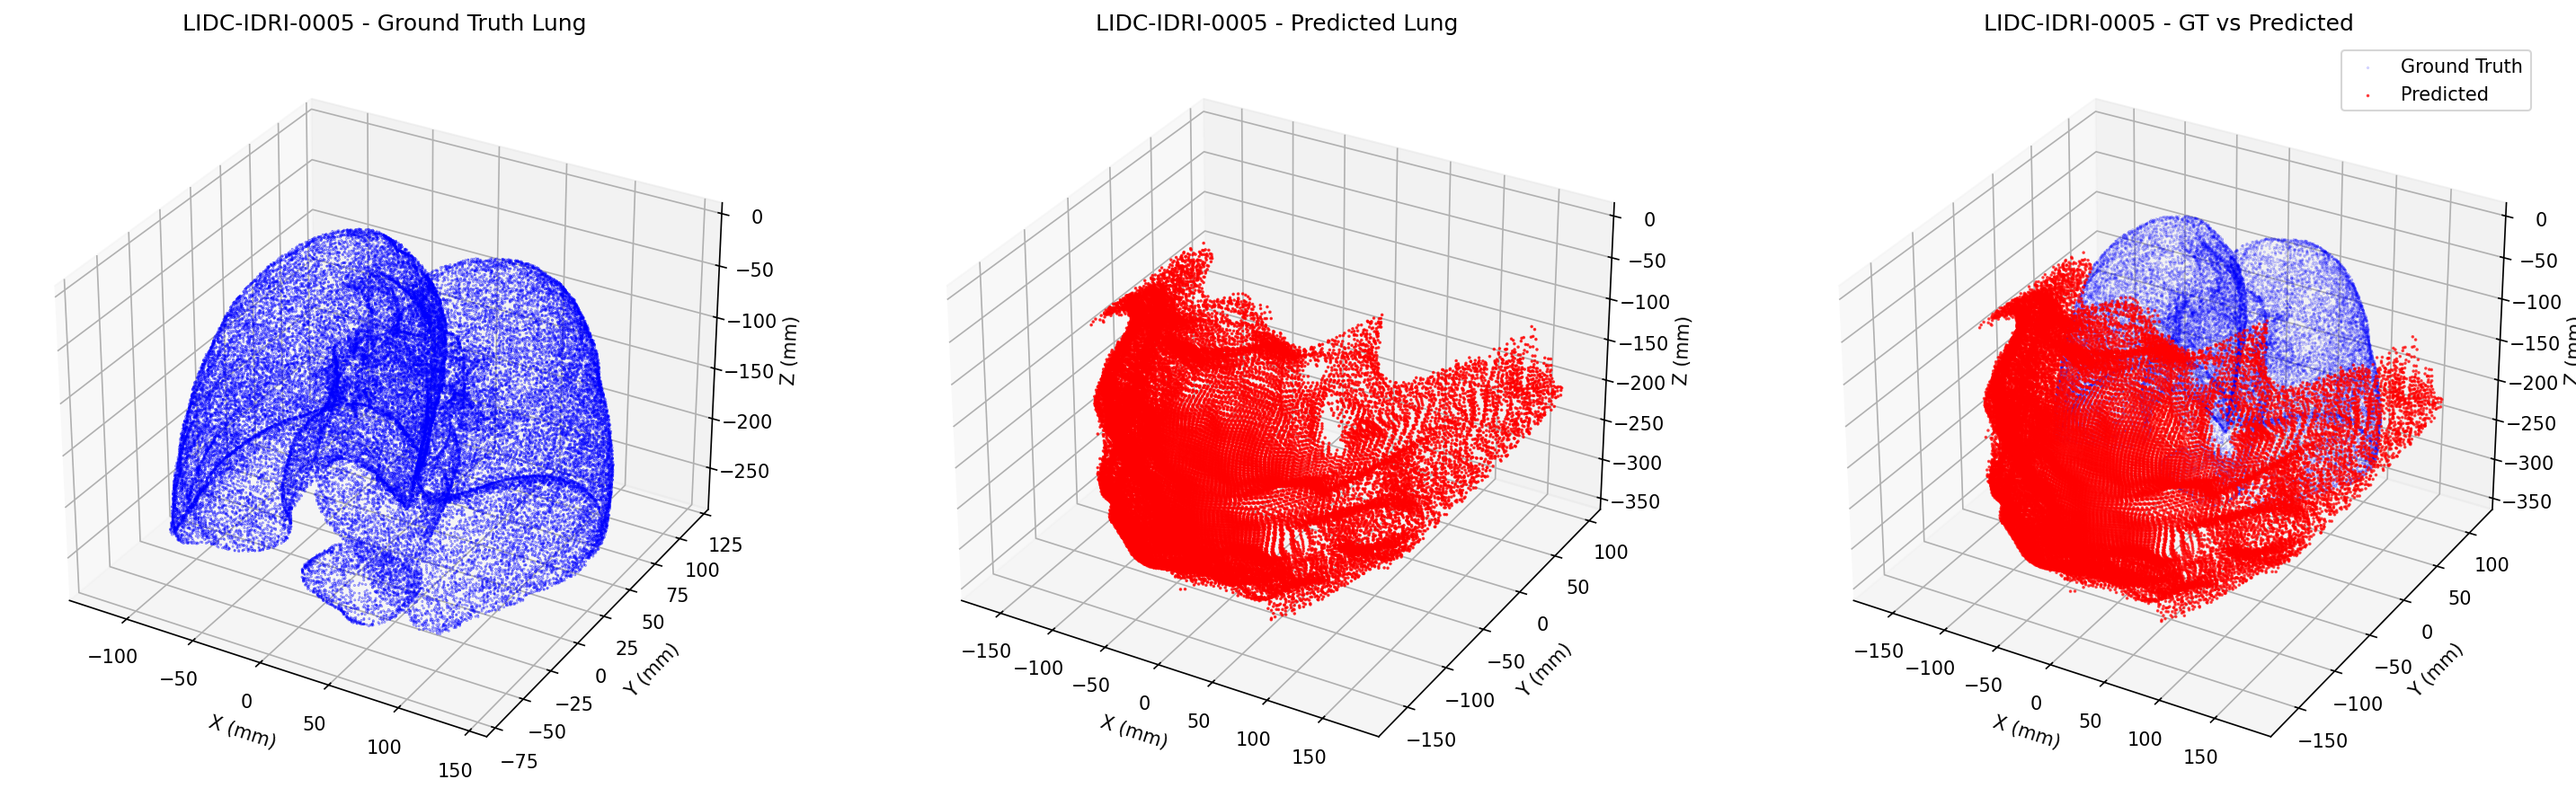
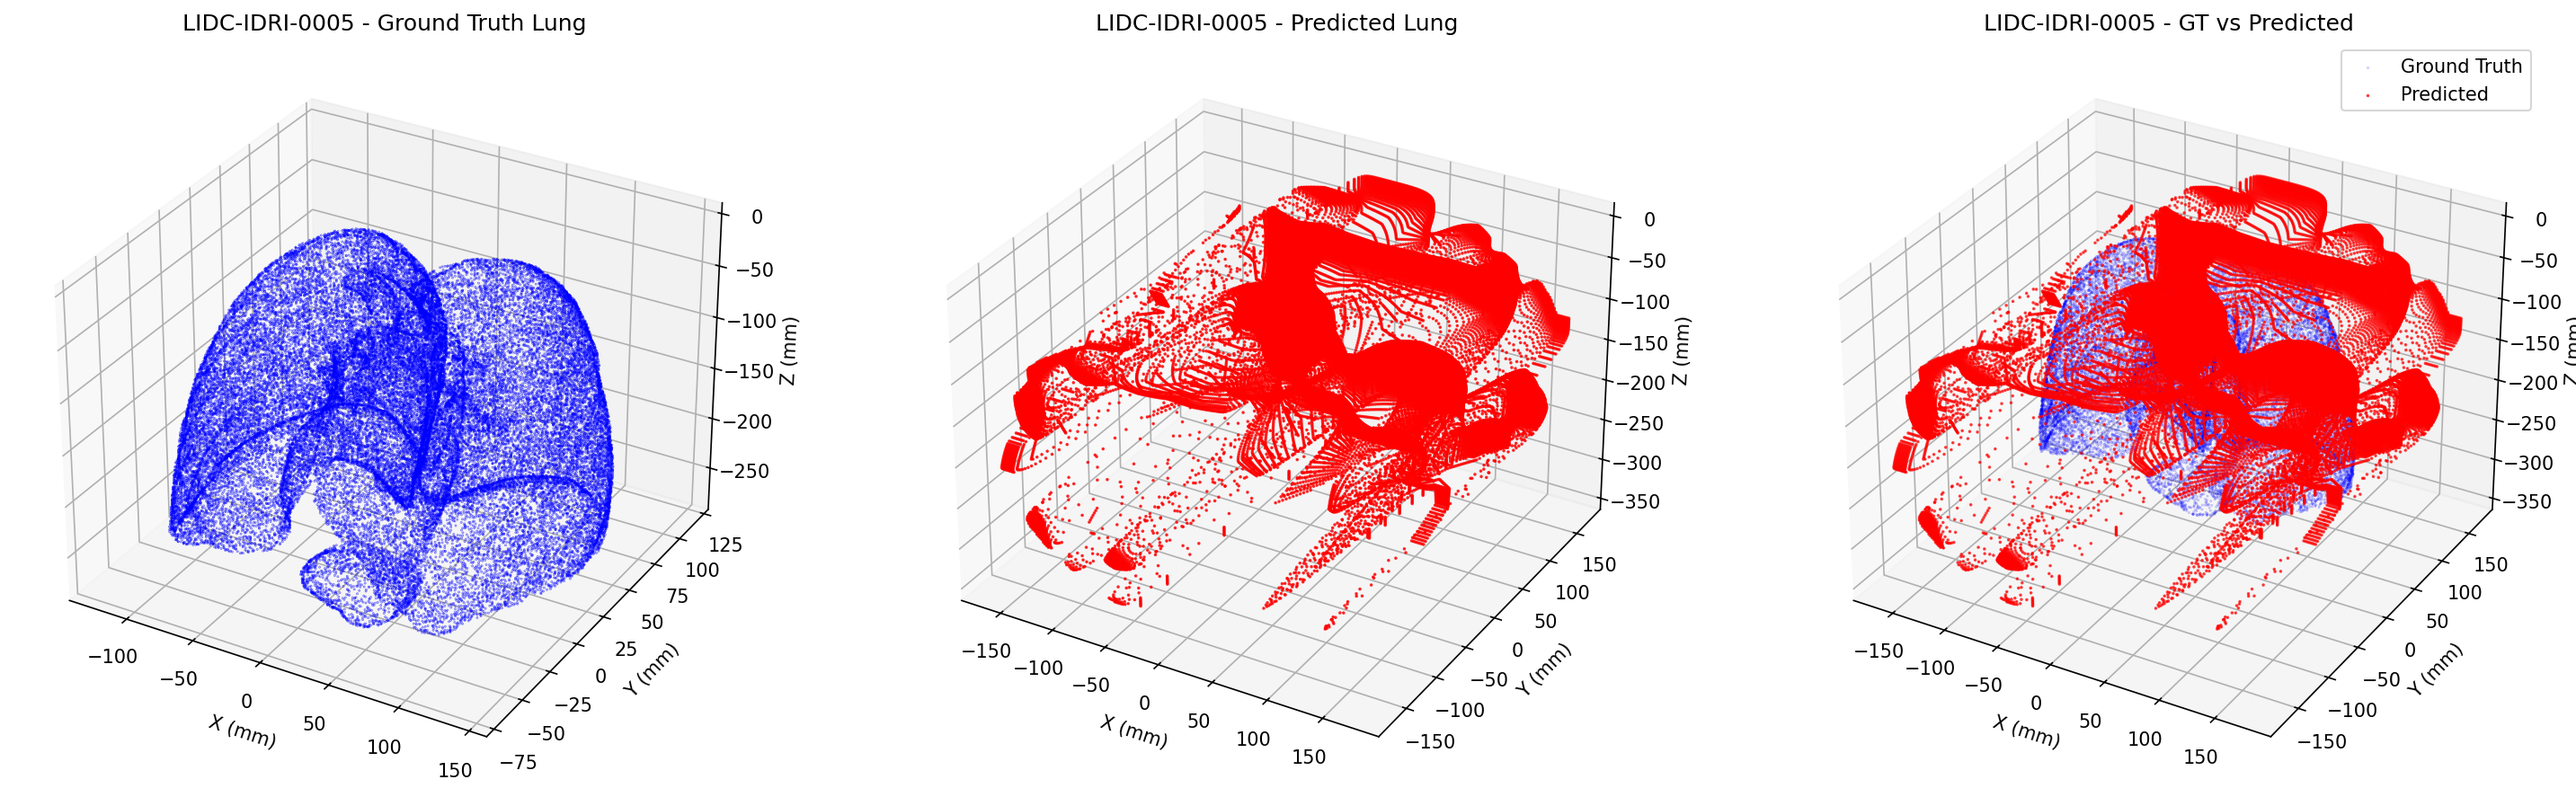
modified train3.py by adding feature pyramid.

diff --git a/train3.py b/train3.py
@@ -117,70 +117,83 @@ class PanoBEVDataset3(Dataset):
 # ===================================================================
 # Model (same as train2)
 # ===================================================================
-class ViTPanoBEV3(nn.Module):
+class ViTPanoBEV3_MultiScale(nn.Module):
     def __init__(self, vit_model_name, output_size=224):
         super().__init__()
         self.vit = ViTModel.from_pretrained(vit_model_name, output_hidden_states=True)
         self.hidden_size = self.vit.config.hidden_size
-        self.output_size = output_size  # 追加
+        self.output_size = output_size
 
-        class DecoderBlock(nn.Module):
-            def __init__(self, in_channels, skip_channels, out_channels):
-                super().__init__()
-                self.up = nn.ConvTranspose2d(in_channels, out_channels, kernel_size=2, stride=2)
-                self.conv = nn.Sequential(
-                    nn.Conv2d(out_channels + skip_channels, out_channels, kernel_size=3, padding=1),
-                    nn.ReLU(inplace=True),
-                    nn.Conv2d(out_channels, out_channels, kernel_size=3, padding=1),
-                    nn.ReLU(inplace=True)
-                )
-            def forward(self, x, skip_x):
-                x = self.up(x)
-                if skip_x.shape[2:] != x.shape[2:]:
-                    skip_x = F.interpolate(skip_x, size=x.shape[2:], mode='bilinear', align_corners=False)
-                x = torch.cat([x, skip_x], dim=1)
-                return self.conv(x)
+        # 各スケールの特徴変換
+        self.scale_convs = nn.ModuleList([
+            nn.Conv2d(self.hidden_size, 256, 1),  # 細部 (layer 4)
+            nn.Conv2d(self.hidden_size, 256, 1),  # 中間 (layer 8)
+            nn.Conv2d(self.hidden_size, 256, 1)   # 大域 (layer 12)
+        ])
 
-        self.bottleneck = nn.Conv2d(self.hidden_size, 512, kernel_size=1)
-        self.decoder4 = DecoderBlock(512, self.hidden_size, 256)
-        self.decoder3 = DecoderBlock(256, self.hidden_size, 128)
-        self.decoder2 = DecoderBlock(128, self.hidden_size, 64)
-        self.final_conv = nn.ConvTranspose2d(64, 16, kernel_size=2, stride=2)
-        self.bev_head = nn.Conv2d(16, 1, kernel_size=1)
-        self.depth_head = nn.Conv2d(16, 1, kernel_size=1)
+        # 特徴融合
+        self.fusion = nn.Sequential(
+            nn.Conv2d(256*3, 256, 3, padding=1),
+            nn.ReLU(),
+            nn.Conv2d(256, 128, 3, padding=1),
+            nn.ReLU()
+        )
+
+        # デコーダーは軽量化（既に融合済みの特徴を使用）
+        self.decoder = nn.Sequential(
+            nn.Conv2d(128, 64, 3, padding=1),
+            nn.ReLU(),
+            nn.Conv2d(64, 32, 3, padding=1),
+            nn.ReLU()
+        )
+
+        # 出力ヘッド
+        self.bev_head = nn.Conv2d(32, 1, 1)
+        self.depth_head = nn.Conv2d(32, 1, 1)
 
     def forward(self, x):
+        # 入力処理
         if x.shape[1] == 1:
             x = x.repeat(1, 3, 1, 1)
 
-        vit_outputs = self.vit(x)
-        hidden_states = vit_outputs.hidden_states
+        # ViT特徴抽出
+        outputs = self.vit(x)
+        hidden_states = outputs.hidden_states
 
-        bsz = x.shape[0]
-        patch = self.vit.config.patch_size
-        fmap = x.shape[2] // patch
+        # 各スケールの特徴を抽出・処理
+        features = []
+        for i, layer_idx in enumerate([4, 8, 12]):
+            # hidden_statesから特徴マップを復元
+            h = hidden_states[layer_idx]
+            B = h.shape[0]
+            h = h[:, 1:].transpose(1, 2).reshape(B, self.hidden_size, 14, 14)
+            
+            # スケール特徴の変換
+            h = self.scale_convs[i](h)
+            
+            # サイズ調整
+            if i > 0:  # 中間・大域特徴を細部特徴のサイズに合わせる
+                h = F.interpolate(h, size=(14, 14), mode='bilinear', align_corners=False)
+            
+            features.append(h)
 
-        skip1 = hidden_states[1][:, 1:].permute(0,2,1).reshape(bsz, self.hidden_size, fmap, fmap)
-        skip2 = hidden_states[4][:, 1:].permute(0,2,1).reshape(bsz, self.hidden_size, fmap, fmap)
-        skip3 = hidden_states[8][:, 1:].permute(0,2,1).reshape(bsz, self.hidden_size, fmap, fmap)
-        bott  = hidden_states[-1][:, 1:].permute(0,2,1).reshape(bsz, self.hidden_size, fmap, fmap)
+        # 特徴融合
+        fused = self.fusion(torch.cat(features, dim=1))
+        
+        # デコード
+        decoded = self.decoder(fused)
 
-        x = self.bottleneck(bott)
-        x = self.decoder4(x, skip3)
-        x = self.decoder3(x, skip2)
-        x = self.decoder2(x, skip1)
-        x = self.final_conv(x)
+        # 最終出力
+        bev = self.bev_head(decoded)
+        depth = self.depth_head(decoded)
 
-        bev = self.bev_head(x)
-        depth = self.depth_head(x)
+        # サイズ調整とシグモイド
+        bev = F.interpolate(bev, size=(self.output_size, self.output_size), 
+                          mode='bilinear', align_corners=False)
+        depth = F.interpolate(depth, size=(self.output_size, self.output_size), 
+                            mode='bilinear', align_corners=False)
 
-        # config で指定されたサイズに合わせる
-        bev  = F.interpolate(bev,  size=(self.output_size, self.output_size), mode='bilinear', align_corners=False)
-        depth= F.interpolate(depth, size=(self.output_size, self.output_size), mode='bilinear', align_corners=False)
-
-        bev = torch.sigmoid(bev)
-        depth = torch.sigmoid(depth)
-        return bev, depth
+        return torch.sigmoid(bev), torch.sigmoid(depth)
 
 # ===================================================================
 # Loss/metrics (optimized for dense targets)
@@ -315,7 +328,7 @@ def main(config_path, resume_from=None):
                           shuffle=False, num_workers=config['num_workers'], pin_memory=True)
 
     # Model
-    model = ViTPanoBEV3(
+    model = ViTPanoBEV3_MultiScale(
         vit_model_name=config['vit_model_name'],
         output_size=config['resize_shape'][0]  # 384を渡す
     ).to(device)
@@ -332,11 +345,9 @@ def main(config_path, resume_from=None):
     dice_loss_weight  = float(config.get('dice_loss_weight', 0.2))   # 軽めに
 
     # Optimizer (encoder low LR, heads high LR)
-    head_params = list(model.bottleneck.parameters()) + \
-                  list(model.decoder4.parameters()) + \
-                  list(model.decoder3.parameters()) + \
-                  list(model.decoder2.parameters()) + \
-                  list(model.final_conv.parameters()) + \
+    head_params = list(model.scale_convs.parameters()) + \
+                  list(model.fusion.parameters()) + \
+                  list(model.decoder.parameters()) + \
                   list(model.bev_head.parameters()) + \
                   list(model.depth_head.parameters())
     optimizer = AdamW([

diff --git a/visual_comparison_3d.py b/visual_comparison_3d.py
@@ -4,7 +4,7 @@ import numpy as np
 import torch
 import yaml
 import SimpleITK as sitk
-from train3 import ViTPanoBEV3, PanoBEVDataset3
+from train3 import  PanoBEVDataset3, ViTPanoBEV3_MultiScale
 import matplotlib.pyplot as plt
 from mpl_toolkits.mplot3d import Axes3D
 from scipy.ndimage import label, binary_closing, binary_opening
@@ -259,6 +259,30 @@ def bev_depth_to_3d_points_improved(bev_pred, depth_pred, ct_image, threshold=0.
     points_3d = np.stack([x_coords, y_coords, z_coords], axis=1)
     return points_3d
 
+def post_process_predicted_points(pred_points, min_cluster_size=1000):
+    """予測点群の後処理（GTと同等の品質向上）"""
+    if len(pred_points) == 0:
+        return pred_points
+    
+    from sklearn.cluster import DBSCAN
+    
+    # 1. クラスタリングで離散点を除去
+    clustering = DBSCAN(eps=5.0, min_samples=50)
+    labels = clustering.fit_predict(pred_points)
+    
+    # 2. 最大クラスタのみ保持（主要な肺野構造）
+    unique_labels, counts = np.unique(labels[labels >= 0], return_counts=True)
+    if len(unique_labels) == 0:
+        return pred_points
+    
+    # 大きなクラスタを選択
+    large_clusters = unique_labels[counts > min_cluster_size]
+    if len(large_clusters) == 0:
+        return pred_points
+    
+    mask = np.isin(labels, large_clusters)
+    return pred_points[mask]
+
 def visualize_gt_vs_prediction(patient_id, model_path, config_path, data_dir, lidc_root):
     """GT vs 予測の視覚比較"""
     device = torch.device('cuda' if torch.cuda.is_available() else 'cpu')
@@ -267,7 +291,7 @@ def visualize_gt_vs_prediction(patient_id, model_path, config_path, data_dir, li
     with open(config_path, 'r', encoding='utf-8') as f:
         config = yaml.safe_load(f)
     
-    model = ViTPanoBEV3(config['vit_model_name']).to(device)
+    model = ViTPanoBEV3_MultiScale(config['vit_model_name']).to(device)
     model.load_state_dict(torch.load(model_path, map_location=device))
     model.eval()
     
@@ -319,6 +343,7 @@ def visualize_gt_vs_prediction(patient_id, model_path, config_path, data_dir, li
     # 予測3D生成
     print("Generating predicted 3D...")
     pred_points = bev_depth_to_3d_points_improved(bev_pred, depth_pred, ct_image)
+    pred_points = post_process_predicted_points(pred_points)  # 後処理追加
     
     print(f"GT points: {len(gt_points)}, Predicted points: {len(pred_points)}")
     
@@ -375,7 +400,7 @@ def visualize_gt_vs_prediction(patient_id, model_path, config_path, data_dir, li
 
 if __name__ == '__main__':
     patient_id = 'LIDC-IDRI-0005'
-    model_path = 'experiments_lung/250820_1100_lungBEV_lr5e-06/best_model.pth'
+    model_path = 'experiments_lung/250820_1456_lungBEV_lr5e-06/best_model.pth'
     config_path = 'config_lung.yaml'
     data_dir = 'dataset_lung'
     lidc_root = 'data/manifest-1752629384107/LIDC-IDRI/'  # 調整してください
